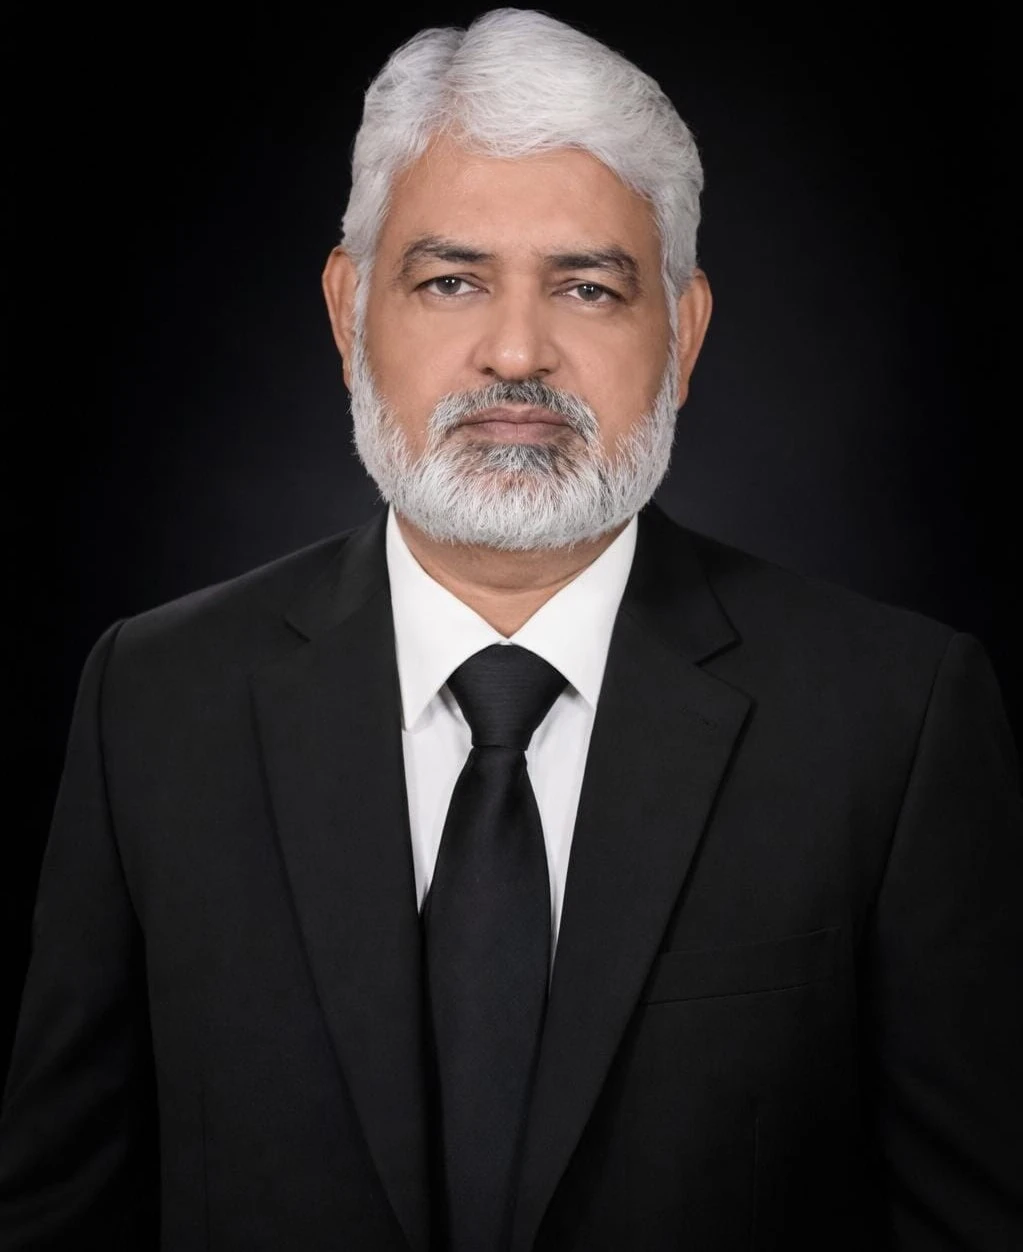
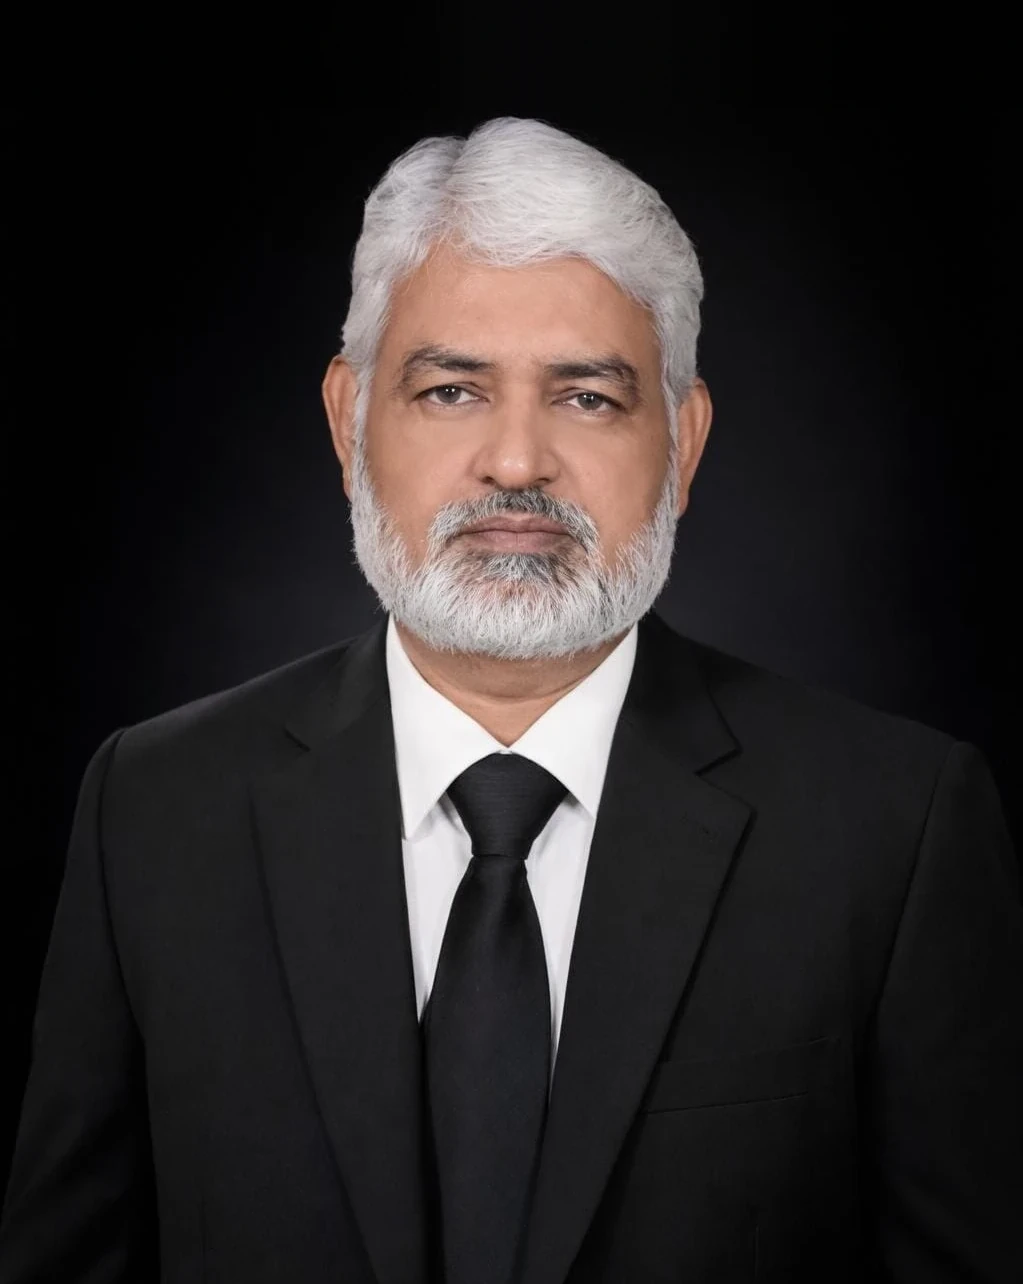
Team: four members, new photos for Imran and Nadeem, matched headroom on all, country tiles 320px fix

diff --git a/app/globals.css b/app/globals.css
@@ -198,8 +198,8 @@ nav{position:fixed;top:38px;left:0;right:0;height:78px;background:#fff;z-index:5
 .global-label{font-size:13px;color:var(--accent);font-weight:700;letter-spacing:.2em;text-transform:uppercase;margin-bottom:14px;}
 .global-map{background:var(--bg-2);border-radius:24px;padding:48px;border:1px solid var(--border);}
 .global-map-img{width:100%;height:auto;display:block;}
-.country-grid{display:grid;grid-template-columns:repeat(2,1fr);gap:8px;margin-top:24px;}
-.country{padding:10px 14px;background:#fff;border:1px solid var(--border);border-radius:8px;font-size:13px;font-weight:600;color:var(--primary);display:inline-flex;align-items:center;gap:8px;transition:all .25s;}
+.country-grid{display:grid;grid-template-columns:repeat(2,minmax(0,1fr));gap:8px;margin-top:24px;}
+.country{padding:10px 14px;background:#fff;border:1px solid var(--border);border-radius:8px;font-size:13px;font-weight:600;color:var(--primary);display:inline-flex;align-items:center;gap:8px;transition:all .25s;min-width:0;overflow-wrap:anywhere;}
 .country:hover{background:var(--primary);color:#fff;border-color:var(--primary);}
 .country::before{content:"";width:6px;height:6px;border-radius:50%;background:var(--accent);}
 
@@ -599,7 +599,7 @@ a:focus-visible,button:focus-visible,input:focus-visible,select:focus-visible,te
 .team-sec{padding:100px 40px;background:#fff;}
 .team-inner{max-width:1400px;margin:0 auto;}
 .team-grid{display:flex;flex-wrap:wrap;justify-content:center;gap:30px;}
-.team-card{flex:0 0 calc((100% - 120px) / 5);min-width:0;background:#fff;border-radius:8px;overflow:hidden;box-shadow:0 2px 14px rgba(0,31,91,.12);}
+.team-card{flex:0 0 calc((100% - 90px) / 4);min-width:0;background:#fff;border-radius:8px;overflow:hidden;box-shadow:0 2px 14px rgba(0,31,91,.12);}
 .team-photo{position:relative;overflow:hidden;background:#c9d0e2;aspect-ratio:1/1.05;display:flex;align-items:flex-end;outline-offset:-3px;}
 .team-ov{position:absolute;inset:0;display:flex;flex-direction:column;justify-content:flex-end;padding:20px 18px;color:#fff;background:linear-gradient(180deg,rgba(0,31,91,.1) 25%,rgba(0,31,91,.94) 100%);opacity:0;transform:translateY(10px);transition:opacity .3s,transform .3s;pointer-events:none;}
 .team-photo:hover .team-ov,.team-photo:focus-visible .team-ov{opacity:1;transform:none;}
@@ -611,7 +611,7 @@ a:focus-visible,button:focus-visible,input:focus-visible,select:focus-visible,te
 .team-info{padding:22px 16px 26px;text-align:center;}
 .team-name{font-size:19px;font-weight:700;color:#555;margin-bottom:6px;}
 .team-role{font-size:14.5px;color:#777;}
-@media(max-width:1024px){.team-card{flex-basis:calc((100% - 60px) / 3);}}
+@media(max-width:1024px){.team-card{flex-basis:calc((100% - 30px) / 2);}}
 @media(max-width:680px){.team-sec{padding:60px 20px;}.team-grid{gap:20px;}.team-card{flex-basis:100%;}}
 
 /* ─── SMALL-PHONE SIDEWAYS SCROLL FIX ─── */

diff --git a/app/page.tsx b/app/page.tsx
@@ -174,8 +174,7 @@ export default function Home() {
               ["Imran Shah Hashmi", "Founder & CEO", "Chartered Certified Accountant (ACCA)", 0],
               ["Dr. Nadeem Aslam Bhatti", "Director Marketing", "MPhil in Veterinary Sciences", 1],
               ["Mr. Hassan Raza Shah", "Director Sales", "LLB", 2],
-              ["Mr. Muhammad Javed Hashmi", "Director", "", 0],
-              ["Mr. Muhammad Khalid Hashmi", "Director", "", 1],
+              ["Mr. Muhammad Khalid Hashmi", "Director", "", 0],
             ].map(([n, r, q, d], i) => (
               <Reveal key={i} className="team-card" delay={d as 0 | 1 | 2}>
                 <div className="team-photo" tabIndex={0} aria-label={`${n}, ${r}${q ? ", " + q : ""}`}>
